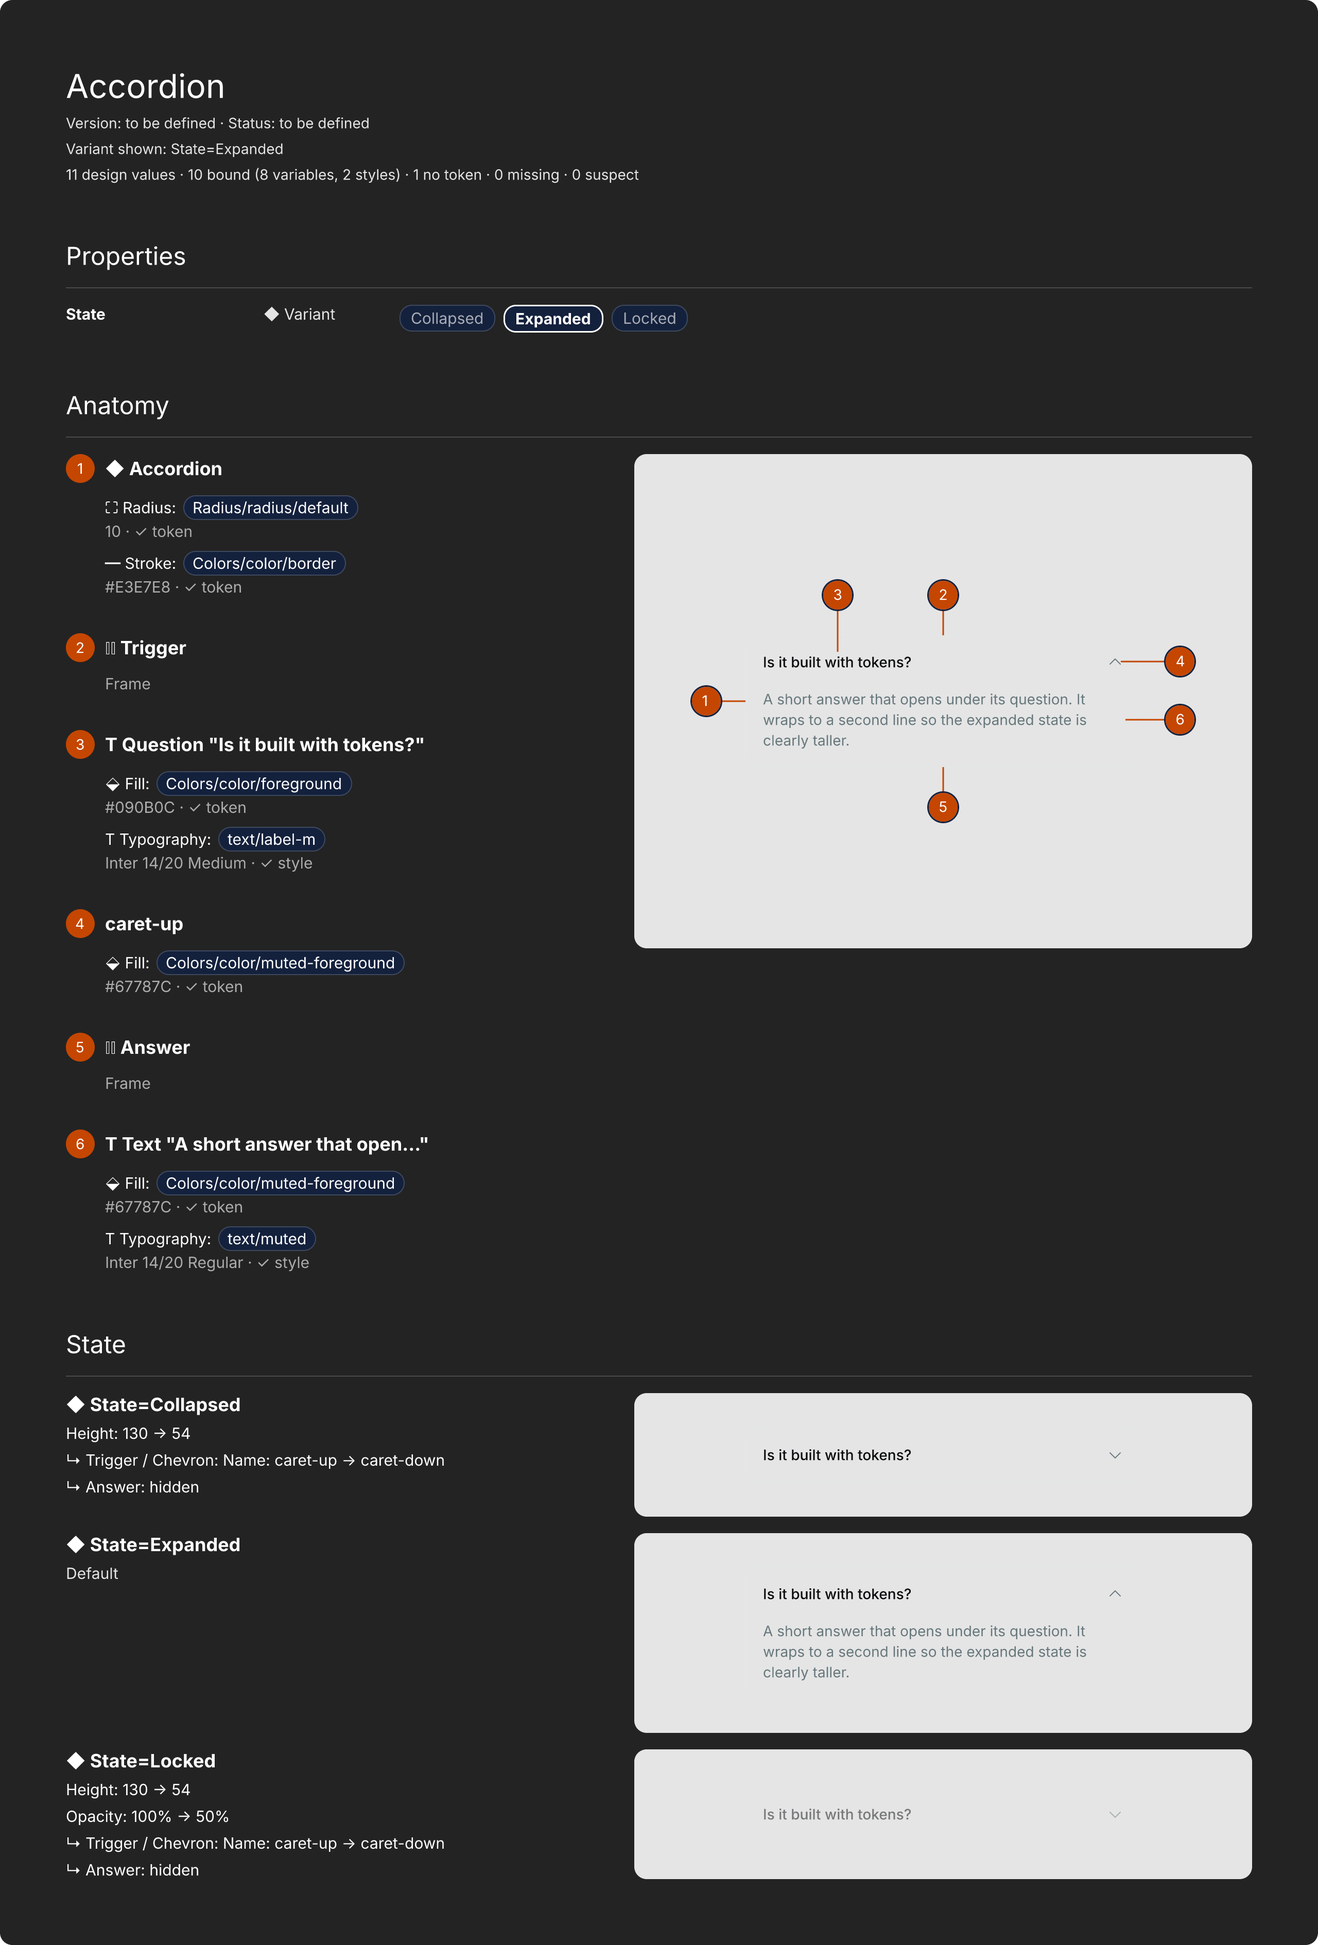
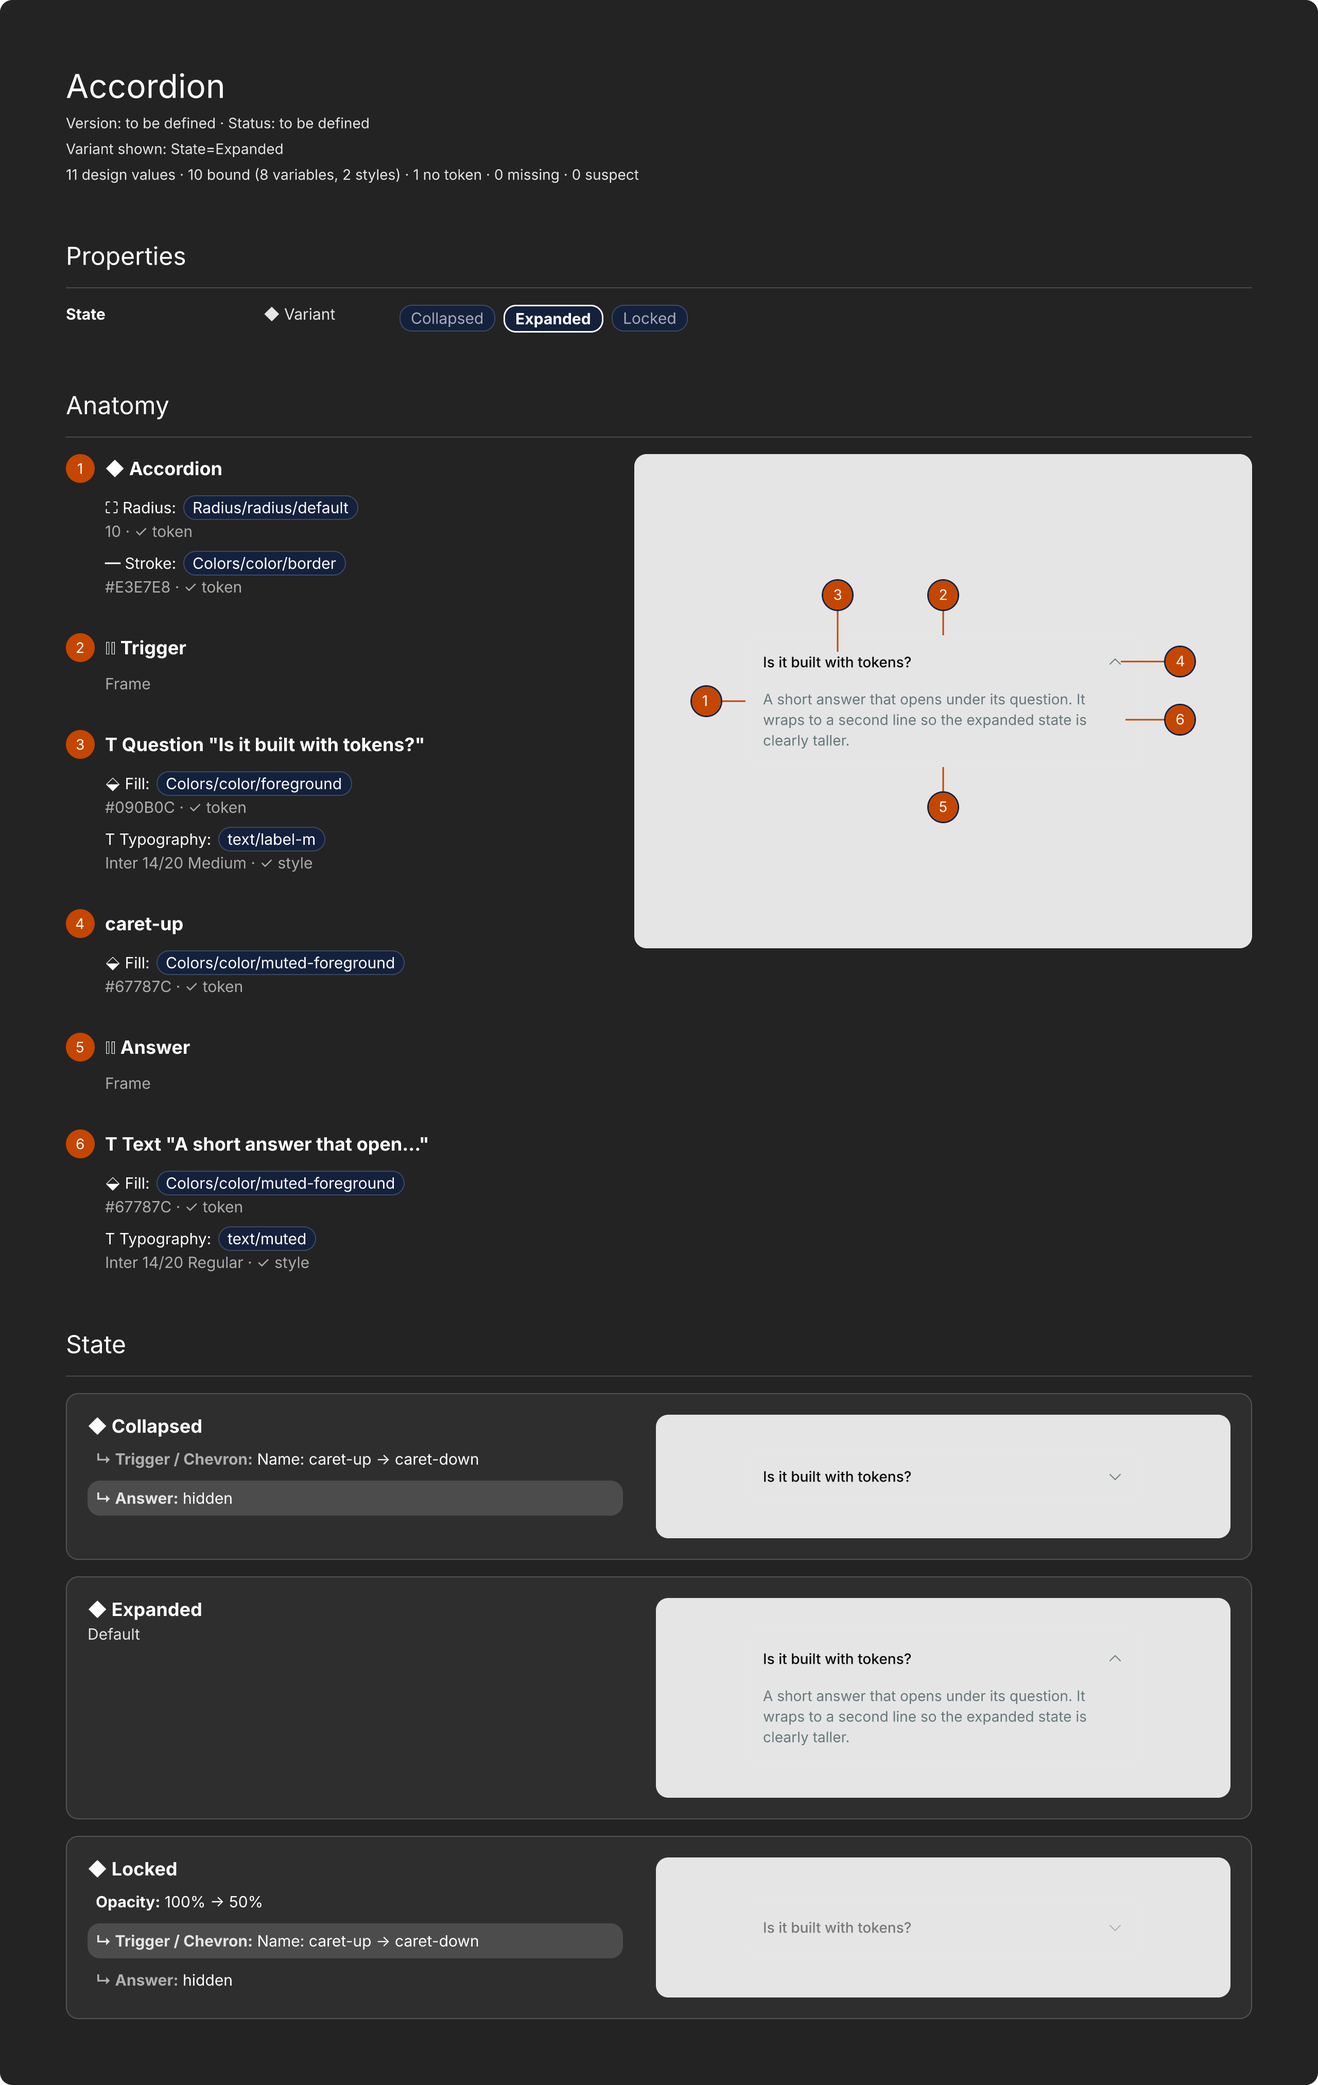
Update README, docs and sample images for striped variant blocks
README: the variant rows are blocks with only the option's value as title; the
differences are stacked (label in bold, tokens above values) in striped blocks
(a group's title with the first change under it; every other block filled,
the first not), one-line changes with their label in bold; hugging or filling
is not a width or height difference; the stacked format is limited to 400
nodes per run; the panel has 5 fields, 3 buttons and 9 notes; 190 unit tests;
the wasm is about 479 KB; the 512 px placement was measured; the limitation
about instance-swap properties.

docs/stage-auto.md: a variant row's stage is 558 px when the Anatomy's is 600.

docs/samples: report-button, report-card and report-accordion regenerated with
figcraft-cli (no app window); report-code is unchanged.

Claude-Session: https://claude.ai/code/session_0159Zokv6Kf85oDuLGPqfd6p

diff --git a/README.md b/README.md
@@ -14,11 +14,15 @@ Select a component or a set and run one command. The plugin writes the documenta
   bound to a variable or style, loose ("no token"), missing from the file, or suspect (bound, but to something of
   another value).
 - **Spacing**: gap and padding, drawn over the component, with the measures filled at 30% opacity.
-- **Variant differences**: for a component set, what each variant changes from the default one, axis by axis.
+- **Variant differences**: for a component set, what each variant changes from the default one, axis by axis. Each axis is a section named after the property (`Type`, `Size`…), with a **block** for each option: its title is only the option's value (`Secondary`, `Large`; the layer keeps the variant's full name, `Variant: Type=Secondary, Size=Medium, State=Enabled`), the changes are on the left and a new instance of the variant is on the right, on its own stage. The default option says "Default" and nothing else. Combinations that don't exist are listed at the end of the section (`Not defined: Large`).
+  - **A change of a property** that has a token or a colour is stacked: the label in bold (`Fill:`), a line of tokens (chips, as in the Anatomy; a side with no token shows a dim `—`) and, under it, a line of values, with the old side, an arrow and the new side lined up in columns. A colour has a 16 px square and its hex; a colour with an alpha gets an empty square and the alpha is in the hex; a gradient or an image shows only its kind; a fill or stroke that is not there says `none`. A change with no token and no colour (a stroke weight, an opacity, a text's own typography) is one line, `Label: from → to` (the label and its colon in bold, the rest as it is), and so is one whose values do not fit the block.
+  - **Stripes tell the blocks of a list apart.** A block is a group's title (`↳ Leading icon / plus · Label / Text`) together with the first change under it, or one line on its own (a change of the component itself, a layer shown or hidden, an instance swapped). Every block has the same padding (8 px) and the blocks are 4 px apart; every other block (the 2nd, the 4th…, never the first) has a `#4C4C4C` fill with rounded corners (radius 12). A group's title is in bold and the secondary text colour (`#E5E5E5B3`, `#E5E5E5` on a stripe); in a layer shown, hidden or swapped the title (`↳ Content / Features:`) is in bold in the same colour and the state (`hidden`, `Size: 16 → 20`) as it is.
+  - **Hugging or filling is not a difference.** A component that hugs (or fills) has the width and height its padding and content give it, and those have their own lines, so its width and height are listed only when the mode is fixed or when the mode changes (`Width: Hug → Fixed 320`). A component the host gives no sizing for (an icon) counts as fixed.
+  - **At most 400 nodes per run** are spent on the stacked format. When the next change does not fit, it and the ones after it are drawn as one line of text, and a note at the end of the section says how many (`3 changes are shown on one line`).
 - **A fixed palette**: the lines, markers and measures use fixed colours, by stage and by section (there is no colour setting). On the light stage the Anatomy is `#C54600` and the Spacing `#007D00`; on the dark stage they are `#FCA311` and `#4ADE80`. The number inside a marker is white on the light stage and dark (`#232323`) on the dark one.
 - **A stage that fits the effects**: every picture sits on a stage (`#E5E5E5` light, `#14213D` dark, rounded and clipped). The stage grows when the instance has a shadow or a blur that would be cut by the clip, by up to 400 px per side.
-- **One SVG export**: the documentation frame is born with a single export setting, SVG at 1x with no suffix, whatever its height (a PNG fails above 16,384 px; SVG has no such limit). The SVG draws text as outlines and its files are big: about 2.6 MB for the DS Base Demo's Card and about 7.3 MB for the 25,922 px test case (measured with figcraft-cli 0.18.1).
-- **Same page, one click**: a new documentation goes 512 px to the right of the rightmost edge of everything on the page, with its top at y = 0 (not at the height of anything). When it replaces an earlier documentation of the same component, it takes that one's place instead. (Inside the file the frame keeps the old pluginData key `handoff-report`, so a rerun still replaces documentation made by earlier versions.)
+- **One SVG export**: the documentation frame is born with a single export setting, SVG at 1x with no suffix, whatever its height (a PNG fails above 16,384 px; SVG has no such limit). The SVG draws text as outlines and its files are big: about 2.6 MB for the DS Base Demo's Card and about 7.3 MB for the 25,897 px test case (measured with figcraft-cli 0.18.1).
+- **Same page, one click**: a new documentation goes 512 px to the right of the rightmost edge of everything on the page, with its top at y = 0 (not at the height of anything; measured on the DS Base Demo: the page's content ends at x = 3,040, the first documentation is at x = 3,552, and the next one starts 512 px after the end of that). When it replaces the most recent earlier documentation of the same component, it takes that one's place instead. (Inside the file the frame keeps the old pluginData key `handoff-report`, so a rerun still replaces documentation made by earlier versions.)
 
 More samples: [Button](docs/samples/report-button.png), [Card](docs/samples/report-card.png),
 [Accordion](docs/samples/report-accordion.png).
@@ -45,14 +49,14 @@ More samples: [Button](docs/samples/report-button.png), [Card](docs/samples/repo
 scripts/build.sh
 ```
 
-It writes `dist/` (the `.wasm` is about 458 KB) and prints the absolute path of the manifest to import. The manifest asks for `write` access and 21 commands. In FigCraft:
+It writes `dist/` (the `.wasm` is about 479 KB) and prints the absolute path of the manifest to import. The manifest asks for `write` access and 21 commands. In FigCraft:
 **Plugins ▸ Development ▸ Import plugin from manifest…** (in the Portuguese app: **Plugins ▸ Desenvolvimento ▸ Importar plugin a partir do manifesto…**), pick `dist/figcraft-plugin.json`.
 
 ## Usage
 
 Run **Plugins ▸ Handoff Components ▸ Generate documentation…**. It opens a panel (it needs a FigCraft that supports plugin API 2) that stays open until you close it:
 
-- **This page**, saved on the current page: language (English or Português (Brasil)), stage (light, dark or **auto**, the default) and what a rerun does (replace or new). The panel has 17 controls. In **auto**, each picture of the documentation (the Anatomy and every variant row) gets the stage, light or dark, that has the better contrast with the colours of the component, judged against `#E5E5E5` and `#14213D`; the Spacing follows the Anatomy (see [`docs/stage-auto.md`](docs/stage-auto.md)).
+- **This page**, saved on the current page: language (English or Português (Brasil)), stage (light, dark or **auto**, the default) and what a rerun does (replace or new). The panel has 17 controls: 5 editable fields (the selects Language, Stage and On rerun, and the text fields Version and Status), 3 buttons (Generate documentation, Restore defaults, Close) and 9 notes (the titles, the hint, the message, the freeze warning and the empty ones that make room). In **auto**, each picture of the documentation (the Anatomy and every variant row) gets the stage, light or dark, that has the better contrast with the colours of the component, judged against `#E5E5E5` and `#14213D`; the Spacing follows the Anatomy (see [`docs/stage-auto.md`](docs/stage-auto.md)).
 - **Documentation**: **Version** and **Status**. Left blank, the documentation shows “to be defined” (“a definir” in Portuguese): the header always has the line `Version: … · Status: …`. Nothing is remembered: after a documentation is made, both fields are blank again.
 - **Messages**, below the buttons (so the buttons never move when a message is longer or shorter): what happened the last time (`✔` done, `✖` refused) and a fixed warning (`ℹ`) that the screen freezes while the documentation is generated. The buttons come after all the fields, on purpose: the app hands a panel's events to the plugin in the order of its controls, so a button above a field would run before the field's new value arrived.
 
@@ -71,7 +75,7 @@ The defaults are: language English; stage `auto`; on rerun `replace`.
 
 **Scripts** make the documentation with no panel by passing `direct: true` (the menu sends no parameters, and opens the panel): `plugin.run` with the `generate` command and the parameters `direct`, and optionally `lang`, `stage`, `on_rerun` (they set the page's settings: an empty one keeps what is saved, `-` clears it, anything else is checked, with the same messages as the panel) and `version`, `status` (the header's texts; absent means “to be defined”). The selection is the one at the time of the call. This is what `scripts/regress.sh` uses. The parameters `line` and `fill_opacity` of earlier versions are ignored, with no error.
 
-The run returns a JSON object. Among its fields: `settings.palette` (`{anatomy, spacing}`, the two colours of the stage that was used), `settings.fill` (the measures' fill: the Spacing colour at 30%, `#007D004D` on the light stage and `#4ADE804D` on the dark one), `export` (`{format: "svg", size: "1x", result, frame_height}`) and `effects` (`{reach, cap, slack, narrow}`: how far the instance's effects reach, in px, the 400 px cap, the 8 px of room kept, and the rows whose stage is too narrow for their effects; the stage is not made wider).
+The run returns a JSON object. Among its fields: `settings.palette` (`{anatomy, spacing}`, the two colours of the stage that was used), `settings.fill` (the measures' fill: the Spacing colour at 30%, `#007D004D` on the light stage and `#4ADE804D` on the dark one), `export` (`{format: "svg", size: "1x", result, frame_height}`) and `effects` (`{reach, cap, slack, narrow}`: how far the instance's effects reach, in px, the 400 px cap, the 8 px of room kept, and the rows whose stage is too narrow for their effects; the stage is not made wider) and, for a set, `axes.stacked` (`{limit, used, capped, measured, redrawn}`: the 400-node budget of the stacked format, the nodes spent, the changes the budget left as one line, the stacked changes measured against the legend's width, and the ones that did not fit and were drawn again).
 
 ### The documentation's date, and what older versions saved
 
@@ -93,17 +97,18 @@ no local time, so a date would be wrong for many people; it will come back when 
 - The host does not report a layer's text case, so it is missing from the typography lines.
 - The screen freezes while the documentation is generated (it is made inside the click, in the app's own thread, with no progress indicator).
 - A run, and each click in the panel, has a fixed instruction budget (1,000,000,000 by default in the FigCraft v0.14.0 sources). Very large components can
-  use much of it: the heaviest case in the regression net, a test fixture with a 155-layer component, uses about 64%; the DS Base
-  Demo's Card uses about 24% (measured with figcraft-cli 0.18.1).
+  use much of it: the heaviest case in the regression net, a test fixture with a 155-layer component, uses about 65%; the DS Base
+  Demo's Card uses about 25% and its Button about 22% (measured with figcraft-cli 0.18.1).
 - Swapping an instance for another component between variants is listed as one line, `↳ Trigger / Chevron: Name: caret-up → caret-down` (only the variant properties that change; both names as they are when they are not variant names of the same properties), and what is inside the instance is not listed. A layer that is hidden in one variant and shown in another (an icon that is not an instance, or an instance that is only turned on or off) is still listed as visible / hidden.
-- Long text changes are shown as an excerpt of at most 70 characters around the first difference, cut at a word boundary, with `[…]` where text was left out. A change in spaces or line breaks only has a line of its own (`Text: whitespace or line breaks only`). Identical changes in several layers are grouped under one title (`↳ A · B · C +2`; in `pt-BR`, `↳ A, B, C +2`; at most 3 names). A variant lists at most 12 lines; the rest is counted. Every line of a property or a change is `Label: value`, in both languages. A layer's or a paint's opacity is shown to one decimal; the alpha of an effect's colour, in whole percent.
+- Long text changes are shown as an excerpt of at most 70 characters around the first difference, cut at a word boundary, with `[…]` where text was left out. A change in spaces or line breaks only has a line of its own (`Text: whitespace or line breaks only`). Identical changes in several layers are grouped under one title (`↳ A · B · C +2`; in `pt-BR`, `↳ A, B, C +2`; at most 3 names). A variant lists at most 12 lines (titles included); the rest is counted (`+2 more differences`). A change drawn on one line, and every other line of a property, is `Label: value` (`Label: from → to`), in both languages; a stacked change has its label in bold with a colon (`Fill:`). A layer's or a paint's opacity is shown to one decimal; the alpha of an effect's colour, in whole percent.
+- The picture of a variant is an instance of that variant placed by the host (`instance.place`), and the differences are read from it. When a layer inside the variant is bound to an instance-swap property of the set, the host gives the instance that property's default instead of the component the variant holds in that layer (measured on the DS Base Demo: the Button's Large variant holds `Name=plus, Size=20` in its leading icon, and its instance has `Size=16`, so the picture is 4 px narrower and the icon's size change is not listed).
 - Layer rotation is not audited or compared between variants.
 - The app's Arrow is a Line with an arrowhead (the host reports it as a `LINE`), so the documentation calls it Line (Linha in pt-BR), not Arrow.
 
 ## Tests and regression
 
 ```sh
-cargo test                      # 169 unit tests + 4 that keep English text out of the code
+cargo test                      # 190 unit tests + 4 that keep English text out of the code
 scripts/regress.sh              # 14 cases against tests/baseline.json: 9 in English (4 fixtures + 5 on the DS Base Demo) and 5 in pt-BR
 scripts/regress.sh --private    # 5 extra cases (in English) on files kept out of the repository (tests/private/), if present
 scripts/panel_sequence.py       # the panel driven like the app does: Version and Status, then the button, in one click; refusals; direct mode

diff --git a/docs/samples/README.md b/docs/samples/README.md
@@ -2,7 +2,7 @@
 
 The demo file for Handoff Components is the **DS Base Demo**, in [`../../demo/`](../../demo/README.md)
 (`demo/ds-base-demo.figcraft`, a small neutral design system built from scratch; MIT).
-Sample documentation images made from it (Button, Card, Accordion, Code) are in this folder: `report-*.png`. They are 2x PNG exports of the documentation frame (the DS Base Demo, `lang` en, version and status left at their defaults), made with the plugin at 953bb57; the Card and Code ones come out on the dark stage because the stage is Auto. The `relatorio-*.png` files are older, historical samples (orange lines, older layouts) and are not regenerated.
+Sample documentation images made from it (Button, Card, Accordion, Code) are in this folder: `report-*.png`. They are 2x PNG exports of the documentation frame (the DS Base Demo, `lang` en, version and status left at their defaults), made with the plugin at f0b6c49 (the fixed palette, the variant rows as blocks with only the option's value as title, the stacked format of the differences in striped blocks); the Card and Code ones come out on the dark stage because the stage is Auto. They are rendered by `figcraft-cli` (no app window), with the fonts of the machine. The Code image has no variant rows, so it has not changed since 953bb57. The `relatorio-*.png` files are older, historical samples (orange lines, older layouts) and are not regenerated.
 
 This folder also holds the recorded outputs of the probes and commands the plugin was built on, taken from
 the test fixtures in `tests/fixtures/` (`fixture-copia`, `fixture-copia-2`, `fixture-carga-v2`;

diff --git a/docs/stage-auto.md b/docs/stage-auto.md
@@ -32,7 +32,7 @@ inner shadow and a background blur stay inside the box. Only visible effects cou
 the instance counts only for what passes the instance's box. The room is the largest reach plus 8 px, at most 400 px
 per side, and never less than the room a stage always had (96 px above and below in the Anatomy and the Spacing, 32 px
 in a variant row). Each variant row uses its own variant's effects. The width is not changed: a row that would need
-more is listed in `effects.narrow` of the run's output.
+more is listed in `effects.narrow` of the run's output. A variant row's stage is 42 px narrower than the Anatomy's (558 px when the Anatomy's is 600 px, measured): the row is a block with a 20 px padding and a 1 px border (`row_stage_w` in `draw_axes`, from `BLOCK_PAD` and `BLOCK_BORDER`).
 
 Code: `src/contrast.rs` (`pick_stage`) and `effective_backdrop` / `is_dark` in `src/gerar.rs`;
 tests in both.
